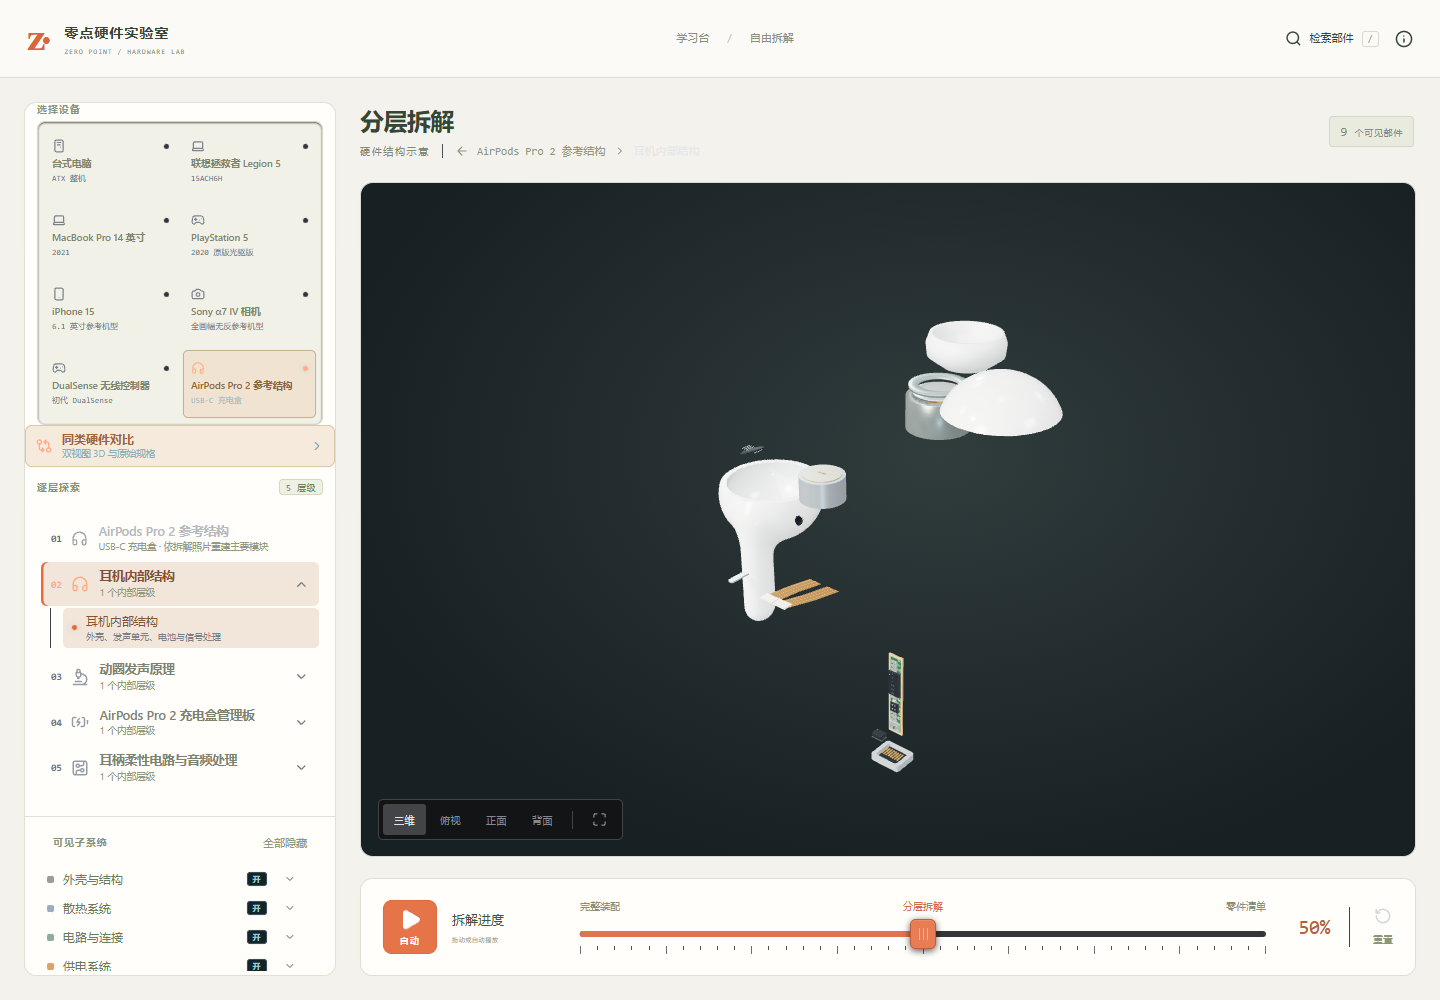
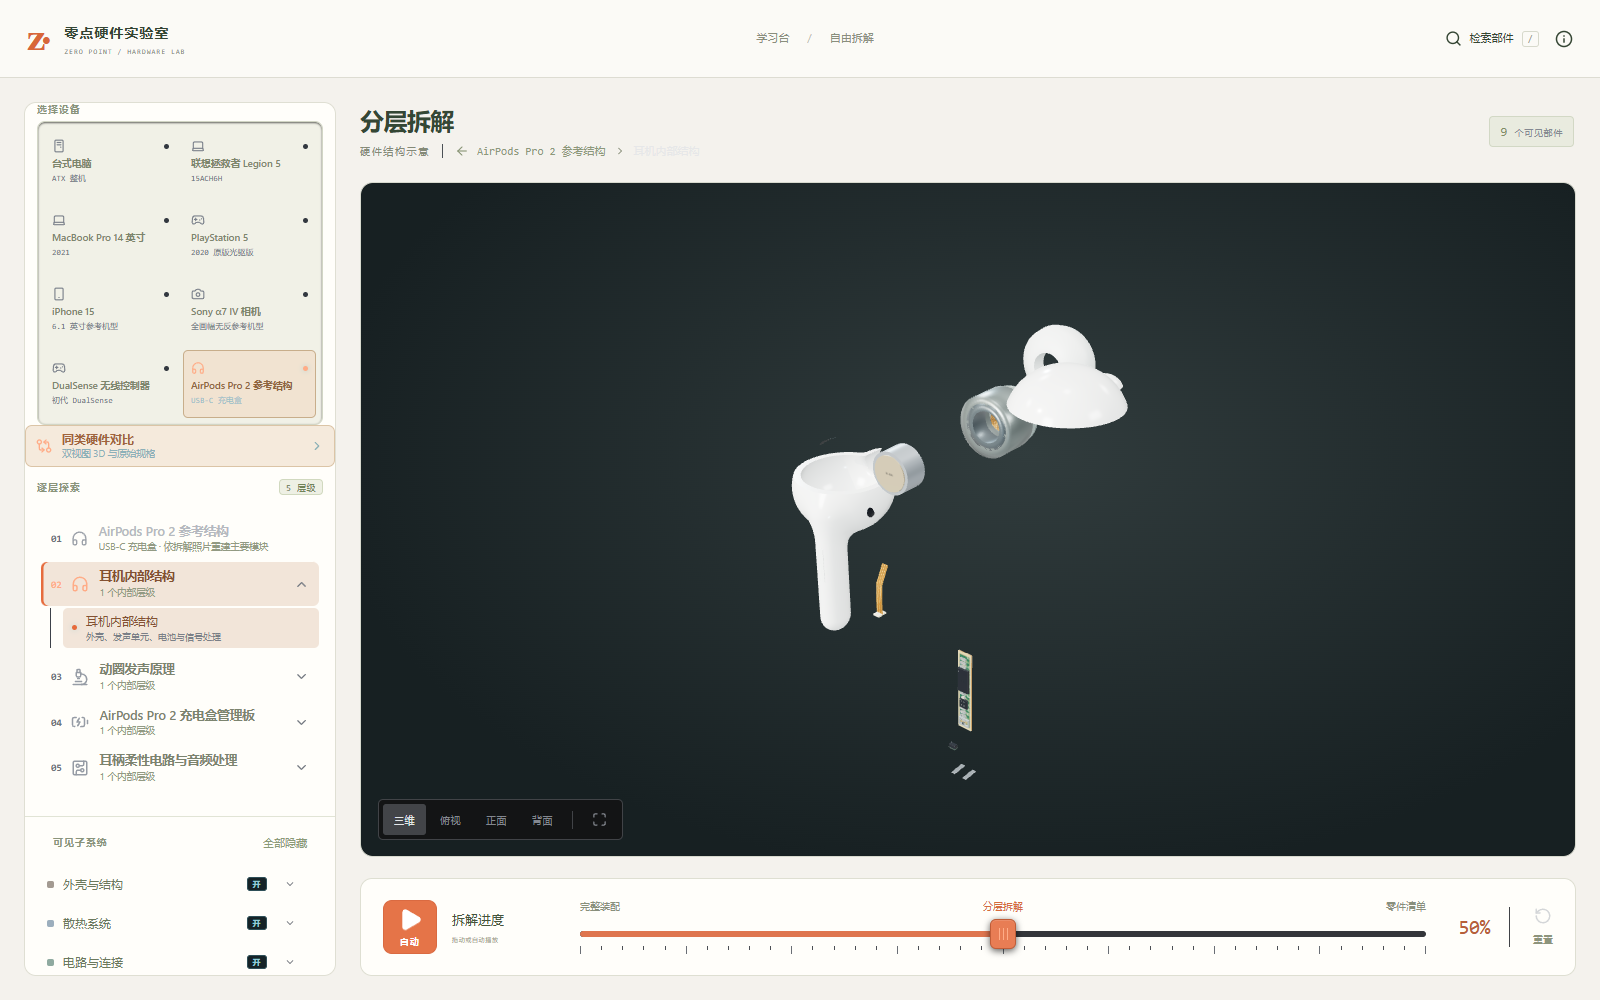
fix: extract earphones vertically and document verified AirPods rebuild

diff --git a/lib/digital/precision-layout.ts b/lib/digital/precision-layout.ts
@@ -668,8 +668,8 @@ export function refinePrecisionAssemblies(definitions: Definition[]) {
     pos: [0, 8.5, 0],
     motion: [0.28, 0.55],
   });
-  edit('earbuds', 'left', { motion: [0.16, 0.38], delta: [-14, 32, 2] });
-  edit('earbuds', 'unit', { motion: [0.16, 0.38], delta: [14, 32, 2] });
+  edit('earbuds', 'left', { motion: [0.16, 0.38], delta: [0, 46, 0] });
+  edit('earbuds', 'unit', { motion: [0.16, 0.38], delta: [0, 46, 0] });
   edit('earbuds', 'connector', {
     pos: [0, -20, 0],
     size: [8.8, 2.3, 4],

diff --git a/lib/digital/geometry.ts b/lib/digital/geometry.ts
@@ -512,7 +512,7 @@ export function detailedGeometry(
       [0, 0, 0],
       parent,
     );
-    const ventGeometry = new T.CircleGeometry(1, 64),
+    const ventGeometry = new T.RingGeometry(0, 1, 64, 8),
       v = ventGeometry.getAttribute('position');
     for (let i = 0; i < v.count; i++) {
       const x = -4.4 + v.getX(i) * 1.8,

diff --git a/docs/GEOMETRY-AUDIT.md b/docs/GEOMETRY-AUDIT.md
@@ -15,3 +15,19 @@
 Sony 原始尺寸来源：[NP-FZ100 官方规格](https://www.sony.co.uk/electronics/interchangeable-lens-cameras-batteries-chargers/np-fz100)。相机外壳曲率仍为资料参考重建，不把这次修复描述成原厂 CAD。
 
 全项目单元测试 140 项通过，数码定向测试 28 项通过；构建、类型、lint 和入口预算通过。已重看五台设备装配、50% 拆解以及独立镜头剖视，未捕获页面异常；相机侧壁收口后单独重看。没有重复执行上轮所有课程流程，也没有将这些检查表述为全体零件连续运动的无碰撞证明。
+
+## AirPods 外形与装配重建
+
+用户截图暴露的盒口破面、厚板式盒盖和无法辨认耳机的问题，说明上一轮仅修正空腔方向仍不足以解决外观质量。本轮集中重建 AirPods，不以测试通过代替视觉验收。
+
+- 上下壳共用 60.6 × 45.2 × 21.7 mm 完整轮廓，按同一曲面分段。用解析截面生成薄壁、连续盒口和约 0.2 mm 接缝，替换无法稳定采样薄边的体素盒壳。
+- 上盖在 0%–16% 围绕固定后侧轴翻开约 105°；耳机随后垂直退出，托盘延后提起。新增“开盖查看”停靠点，保留完整装配、分层拆解、零件清单。
+- 托盘不再用越过外轮廓的矩形孔拼接，改为左右镜像的声腔凹位、向内耳塞凹位和偏置耳柄杯。开孔和凹杯共用轮廓数据。
+- 耳机壳体重新处理耳柄、声腔和出声颈部的连续曲面；互补壳片用精确平面切分和封边，消除体素截口锯齿。耳塞翻转到正确出声方向，泄压网按曲面贴附。
+- 发声单元转向出声口，电池、耳柄电路、麦克风、排线和接点重新安排；消除原来伸出外壳的连接板和接点。调整充电盒内电芯、板卡和线圈间距。
+
+外形尺寸依据 [Apple 官方规格](https://support.apple.com/en-nz/111834)，结构对照 [Lumafield 第二代 AirPods Pro CT 拆解](https://www.lumafield.com/first-article/posts/virtual-teardown-apple-airpods-pro-2nd-generation)。内部安装尺寸、壳体曲率、开盖角度与凹槽仍为参考重建参数，并非从 CT 中提取的原厂网格。
+
+验证增加耳机元件相对 1 mm 壳壁的采样净空、盒内组件与圆角空腔的采样净空、实际耳机三角面在托盘厚度内三个截面的通孔检查、铰链固定点和可逆性、先取耳机再提托盘的顺序检查。全项目 145 项、数码定向 33 项通过，类型检查、生产构建、lint 与入口预算通过。浏览器重看闭合、16% 开盖、50% 拆解、100% 清单，以及单耳机装配与拆解。
+
+这些检查覆盖上述几何约束和观察姿态，不表示所有微型零件、任意连续运动与全部视角均已通过完整网格碰撞检测。

diff --git a/README.md b/README.md
@@ -25,6 +25,14 @@
 
 这些是帮助理解结构与功能的教学模型，不是精确维修图、完整物料清单或真实性能模拟。具体型号参考与通用原理模型的范围见[设备参考](docs/DIGITAL-DEVICES.md)。
 
+## AirPods 外形与开合重建
+
+充电盒上下壳改为同一完整曲面的分段，重做平整盒口、连续接缝与贴合耳机的双凹槽。耳机外壳、耳柄、出声口、耳塞和内部布局同步调整；先沿铰链开盖，再垂直取出耳机，最后分离托盘。点击进度条上方的 **开盖查看** 可直接观察入盒姿态。
+
+[开盖体验](https://zero-point-hardware-lab.vercel.app/?scale=earbuds&open=16) · [本轮问题和验证范围](docs/GEOMETRY-AUDIT.md#airpods-外形与装配重建)
+
+![AirPods 开盖实际渲染](docs/screenshots/earbuds-open.png)
+
 ## 几何自查修复
 
 本轮修正相机握柄与官方电池尺寸、后壳接缝和卡槽，整机镜头恢复完整筒壁；同时修正手机磁环层高、耳机盒空腔方向、PS5 卡扣贴合与扳机内部包络。没有增加设备或层级数量。[逐项问题与验证记录](docs/GEOMETRY-AUDIT.md)。
@@ -148,7 +156,7 @@ npm run build
 npm run size
 ```
 
-已通过 **140 项测试**。另提供浏览器验收，覆盖学习流程、进度持久化、新设备拆解、部件交互与移动布局。先运行生产预览，再在另一个终端执行：
+已通过 **145 项测试**。另提供浏览器验收，覆盖学习流程、进度持久化、新设备拆解、部件交互与移动布局。先运行生产预览，再在另一个终端执行：
 
 ```bash
 node scripts/learning-smoke.mjs

diff --git a/docs/VALIDATION.md b/docs/VALIDATION.md
@@ -126,3 +126,5 @@ node scripts/notebook-smoke.mjs
 ## 2026-10-19：几何自查修复
 
 不增加层级数量。修复相机电池/握柄/卡槽关系、整机镜头剖切、手机磁环高度、耳机盒内腔方向、PS5 卡扣定位和手柄扳机底板包络。详细问题与证据见 [几何自查](GEOMETRY-AUDIT.md)。全项目 140 项测试、数码 28 项定向测试、构建、类型、lint 与入口预算通过；五类设备装配/50% 拆解及独立镜头画面重新查看。
+
+2026-10-19 AirPods 重建：全量 145 项通过；最终贴面网格调整后数码定向 33 项再次通过。生产构建、lint、入口预算通过。复核根层级 0/16/50/100% 和单耳机 0/50%，新增铰链、壳壁、盒腔、托盘截面与垂直退出约束；详见 GEOMETRY-AUDIT.md。

diff --git a/docs/DEVELOPMENT.md b/docs/DEVELOPMENT.md
@@ -104,3 +104,6 @@
 
 - `896c912`：修正相机连续前壳、官方电池包络和卡槽、镜头安装/剖视状态、手机磁环层高、耳机盒内腔方向、侧盖卡扣位置及扳机内部包络。
 - 补充实际网格射线采样检查；修复前后不增加部件或层级数量。后续保存实际截图与几何审查记录。
+
+### 节点：AirPods 外观与装配重建
+提交 53c43bc：统一盒体曲面、铰链开盖、凹槽与耳机内外结构。后续修正垂直取耳机的轨迹，并保存实际渲染和专项几何检查。
